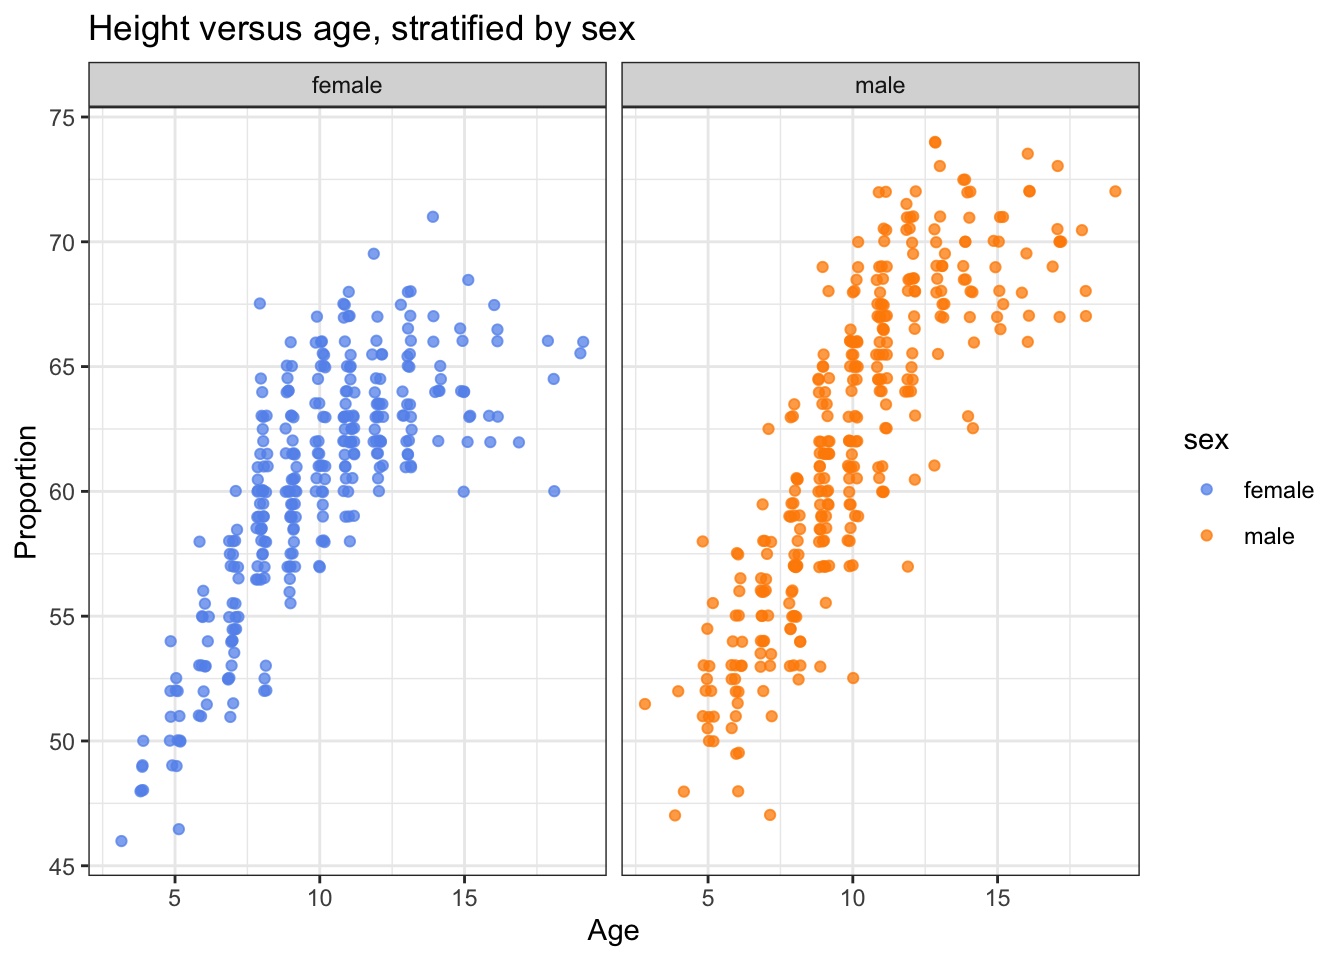
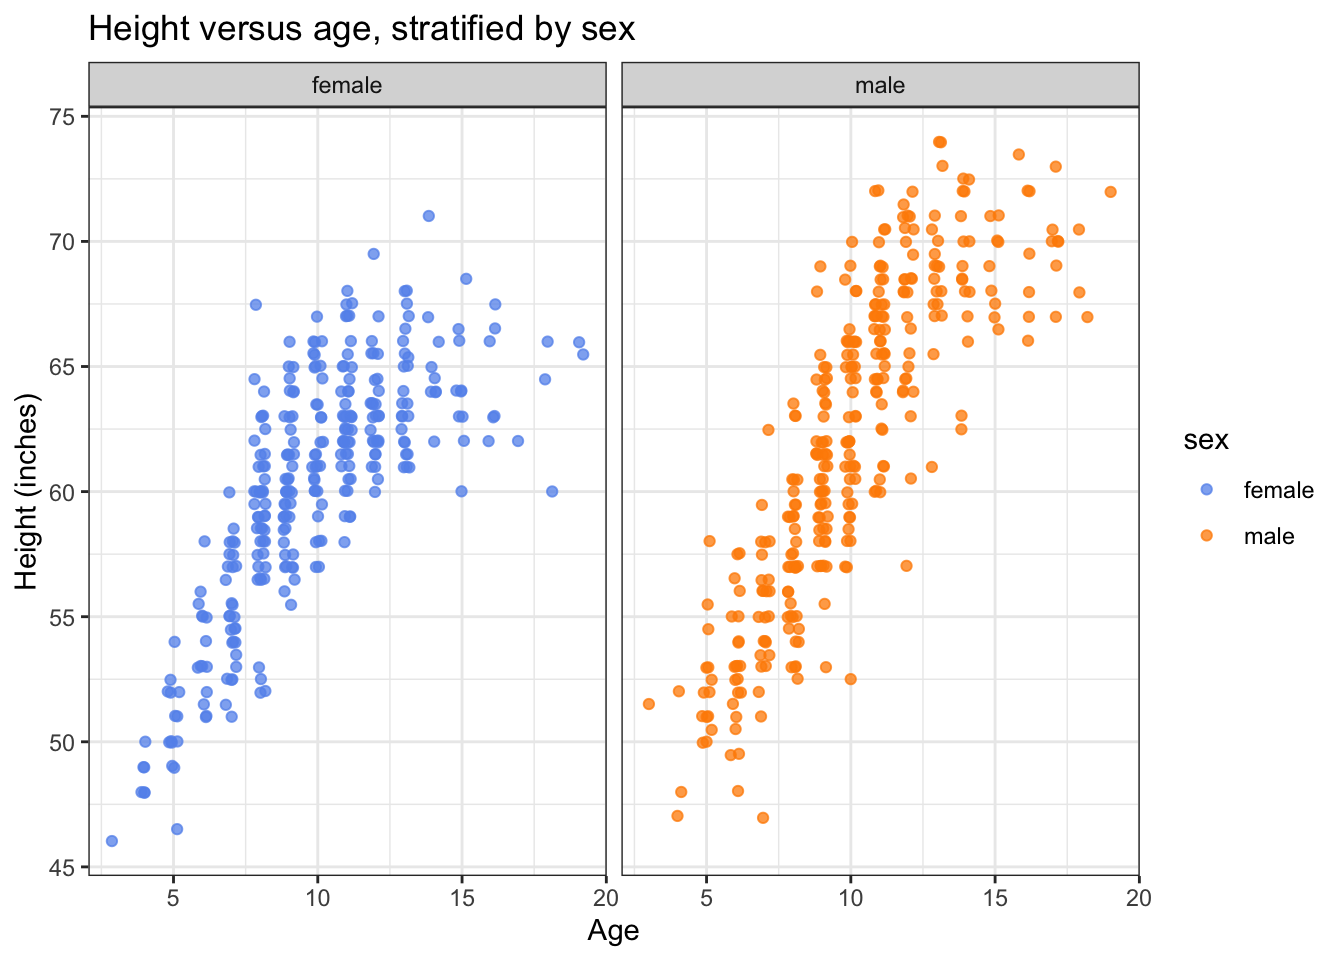
fixing a typo in supp-a06-solution

diff --git a/content/notes/supp-a06-solution.html b/content/notes/supp-a06-solution.html
@@ -62,7 +62,7 @@ fev_tbl &lt;- as_tibble(fev) %&gt;% mutate(across(sex:smoke, ~ as.factor(.x)))</
   facet_wrap(~sex) + 
   ggtitle(&quot;Height versus age, stratified by sex&quot;) +
   xlab(&quot;Age&quot;) + 
-  ylab(&quot;Proportion&quot;) + 
+  ylab(&quot;Height (inches)&quot;) + 
   theme_bw()</code></pre>
 <p><img src="/notes/supp-a06-solution_files/figure-html/unnamed-chunk-4-1.png" width="672" /></p>
 <p>We see that the within-sex trend is similar: height is linear-ish at younger ages, and flat-ish at older ages. Boys wind up taller at older ages.</p>
